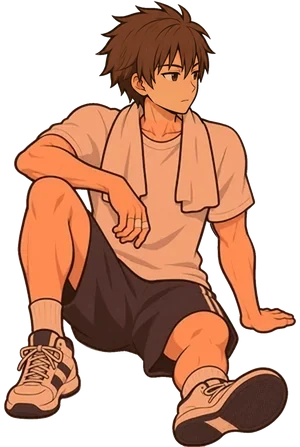
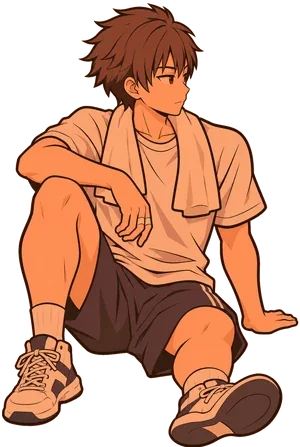
4章：ケイの座り絵を描き直し（探索中はボールを見る・よそを見る・作り笑いでボールを持つ）

Changed region(s): [[0.0, 0.0, 1.0, 1.0], [0.36, 0.698, 0.39, 0.7271]]

diff --git a/index.html b/index.html
@@ -7313,7 +7313,7 @@
     clock2: ['時計の下に体育館の使用予定表が貼ってある。', '「7/15（火）　16:00〜17:15（片付け〜17:30）　A面：男子バレー部　B面：男子バスケットボール部」',
              '「17:30〜18:00　延長（大会前）：男子バスケットボール部　全面　片付け・鍵の返却：部長」', '延長の欄にだけ顧問の赤ペンで線が引かれていた。……今日の延長はなくなったらしい。'],
     id: 'gym', key: 'kei', memory: ['（……大きな、まっすぐな字で、ケイは手帳に名前を書いてくれた。ペンを返しながら少しだけ笑った）', '（遅くまで残っていた日。明かりのついた体育館で、一人で走り続ける影を見たことがある。……あれはケイだったんだ）'], name: 'ケイ', who: 'この人', startMin: 90, room: '体育館', hall: 'hall_gym', label: '第四章「体育館」', bg: 'gym', bgClock: { cx: 1464, cy: 90, rx: 31, ry: 32 },
-    sit: { src: 'kei_sit', close: 'kei_sit_close', style: 'left:79.5%;top:45.1%;height:21.8%' },
+    sit: { src: 'kei_sit_ball', close: 'kei_sit_close', style: 'left:79.5%;top:45.1%;height:21.8%' },   // 2026-11-26 作者の指示：探索中は床のボールを見る座り絵。よそを見る・ボールを持つと同じ土台から描き直した3枚
     // 消えた後床に残るバッシュ（わすれものの絵と同じ靴を、ケイが座っていた床に置いた重ね絵）
     leftover: '', leftoverImg: 'g_left',
     faces: { plead: 'kei_plead', normal: 'kei_bust', smile: 'kei_smile', angry: 'kei_angry', surprise: 'kei_surprise', sad: 'kei_sad', down: 'kei_down', grief: 'kei_grief', despair: 'kei_despair', reject: 'kei_reject', shadow: 'kei_despair', crySmile: 'kei_crysmile', softSmile: 'kei_softsmile', serious: 'kei_serious', breath: 'kei_breath', blank: 'kei_blank', teary: 'kei_teary', sadGrip: 'kei_sadgrip' },
